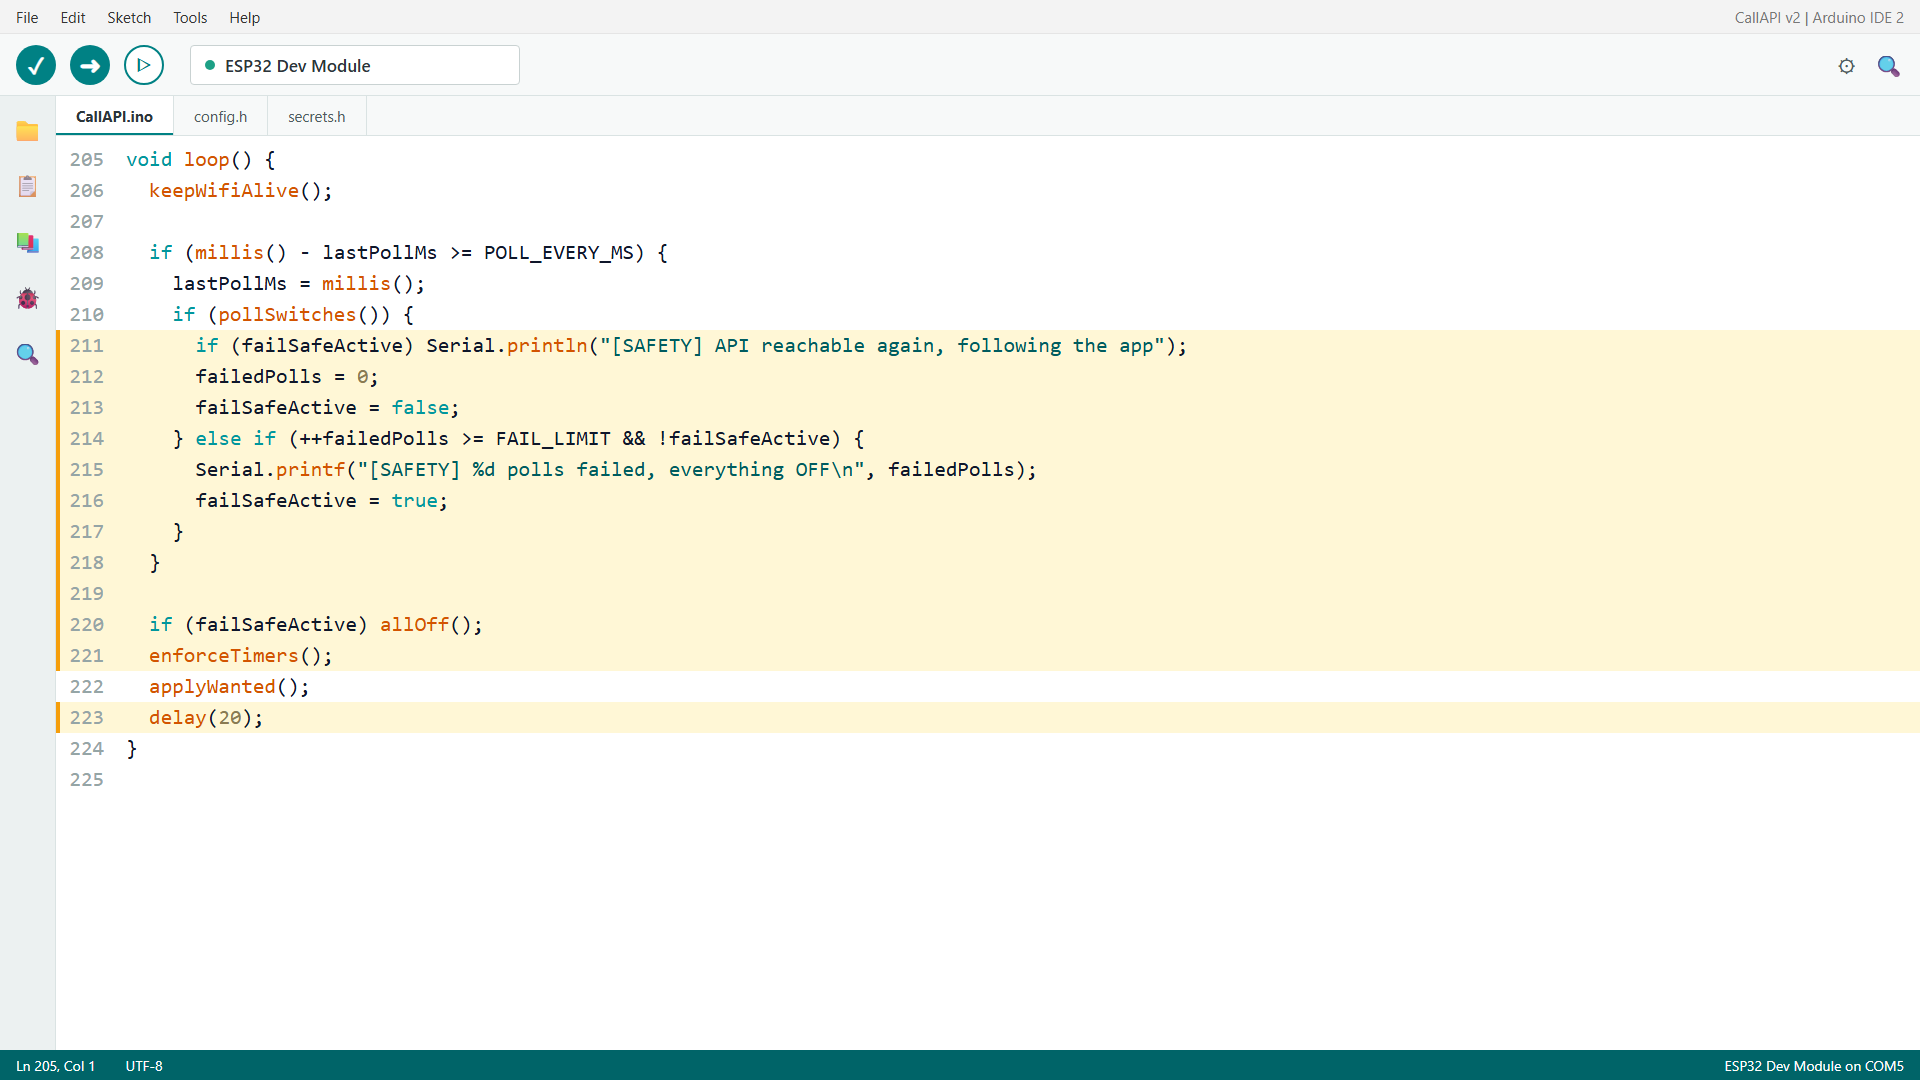
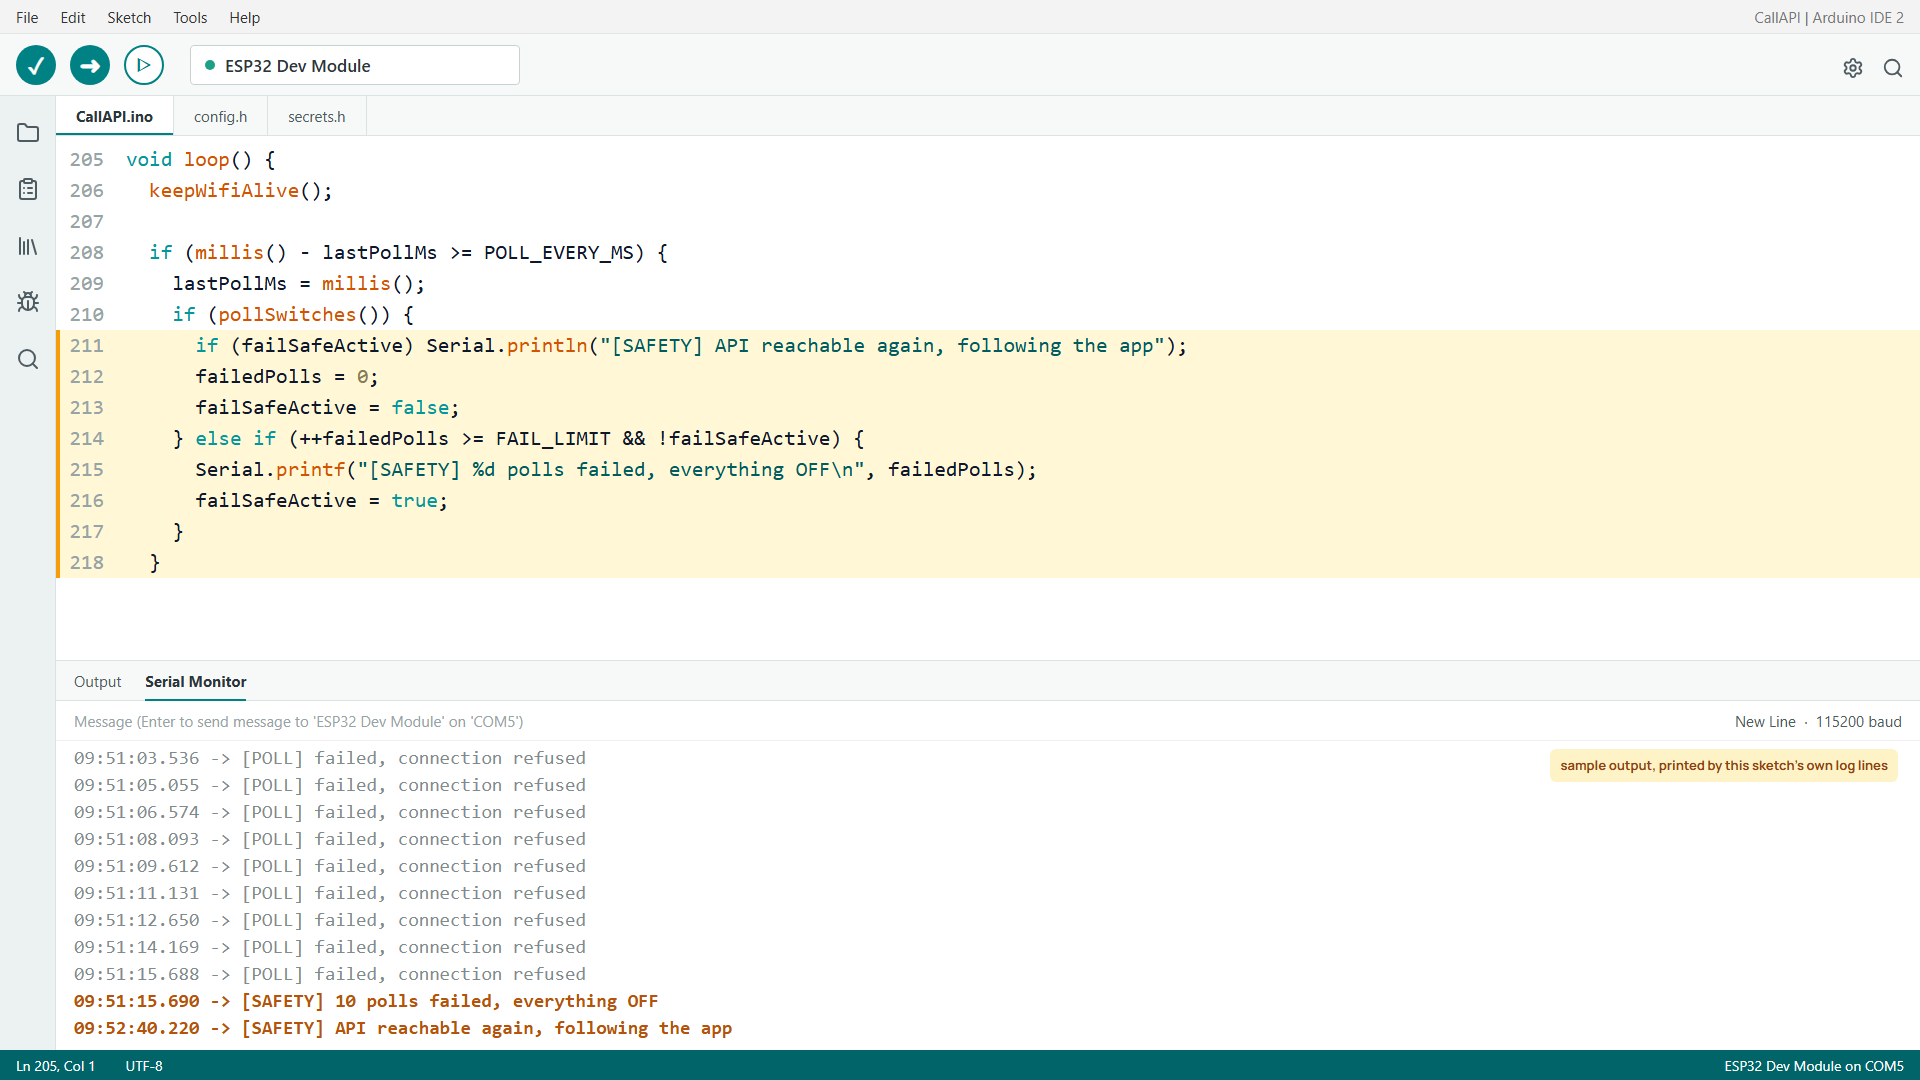
Latest working code only: drop the old-version comparison (docs/before-after.md), neutral sketch header and IDE title, new thumbnail with the EP 4 badge

diff --git a/arduino/CallAPI/config.h b/arduino/CallAPI/config.h
@@ -2,7 +2,7 @@
 #pragma once
 
 // ---------------- Relay pins ----------------
-// The 2023 version used GPIO 13, 12 and 14. Two of those are risky for relays:
+// Pick pins with no role at boot. Two common choices are risky for relays:
 //   GPIO 12 is a boot strapping pin (a relay board pulling it HIGH can stop the ESP32 from booting),
 //   GPIO 14 puts out a short PWM signal at boot (a relay can click on for a moment).
 // These four pins are plain outputs with no boot role.

diff --git a/arduino/README.md b/arduino/README.md
@@ -1,4 +1,4 @@
-# ESP32 sketch: CallAPI v2
+# ESP32 sketch: CallAPI
 
 One ESP32 on home Wi-Fi drives a 4-channel relay board: the Motor (main pump) and one solenoid each for the ground, first and second floor drip lines. Every 1.5 seconds it asks the web API for four booleans and sets the relays (true = ON), with its own safety rules on top. The board never talks to Dataverse and holds no Dataverse credentials.
 
@@ -22,7 +22,7 @@ One ESP32 on home Wi-Fi drives a 4-channel relay board: the Motor (main pump) an
 | GND | GND | Common ground for the relay inputs |
 | 5V / VIN | VCC | Relay board logic supply (check your board) |
 
-These pins are plain outputs with no boot role. The 2023 version used GPIO 12 and 14: GPIO 12 is a boot strapping pin and GPIO 14 pulses at boot, so a relay could stop the board from booting or click on for a moment.
+These pins are plain outputs with no boot role. Avoid GPIO 12 and 14 for relays: GPIO 12 is a boot strapping pin and GPIO 14 pulses at boot, so a relay could stop the board from booting or click on for a moment.
 
 Most relay boards switch ON when the input is LOW. If yours switches ON with HIGH, set `RELAY_ACTIVE_LOW` to `false` in `config.h`.
 
@@ -74,7 +74,7 @@ A missing key counts as false. Any error, timeout or bad JSON counts as a failed
 This is a **sample** of what the Serial Monitor shows, with IDE timestamps on: one manual run from the app, then an API outage. It is written to show the messages, not a live capture.
 
 ```text
-09:40:58.102 -> [BOOT] CallAPI v2, all relays OFF
+09:40:58.102 -> [BOOT] CallAPI, all relays OFF
 09:40:58.405 -> [WIFI] connecting......
 09:41:01.511 -> [WIFI] connected, IP 192.168.1.42, signal -58 dBm
 09:41:30.874 -> [POLL] Motor wants ON

diff --git a/CHANGELOG.md b/CHANGELOG.md
@@ -8,11 +8,11 @@ First public release, alongside Architect's Build Lab, Episode 4.
 
 ### Added
 
-- ESP32 sketch `CallAPI` v2: one HTTPS call per poll with a pinned root certificate and a device key, four relays (Motor, Ground, First and Second floor solenoid), settings in `config.h`, secrets in a git-ignored `secrets.h`.
+- ESP32 sketch `CallAPI`: one HTTPS call per poll with a pinned root certificate and a device key, four relays (Motor, Ground, First and Second floor solenoid), settings in `config.h`, secrets in a git-ignored `secrets.h`.
 - Node web API (no packages) that answers with four booleans: mock mode for the bench, Dataverse mode with a read-only service account, and an optional read through the `cr_GetSwitchStates` Custom API. 15 automated checks.
 - C# Dataverse plugins: `SwitchCommandNotifyPlugin` (an ON row creates a WhatsApp message row), `GetSwitchStatesPlugin` (newest row per switch, one query) and `SendWhatsAppMessagePlugin` (Meta WhatsApp Cloud API, every admin number or one receiver). Pure logic in a tested helper layer, 41 unit tests.
 - Dataverse schema as JSON and markdown, and `create-schema.mjs` to create it through the Web API (checked with a dry run only so far).
-- Step-by-step docs for the scheduled watering flow and the send WhatsApp flow, the canvas app, architecture, setup, placeholders, security, wiring and the 2023 to v2 comparison.
+- Step-by-step docs for the scheduled watering flow and the send WhatsApp flow, the canvas app, architecture, setup, placeholders, security and wiring.
 
 ### Security
 

diff --git a/README.md b/README.md
@@ -19,7 +19,7 @@
 
 Watering plants on three floors by hand, every day, is easy to forget and hard to do while you are away.
 This repo is the system that does it at home: a phone app and a schedule give the orders, an ESP32 on the terrace switches the pump and one tap per floor, and every admin gets a WhatsApp message when watering starts.
-It has run at our home since 2023; this is the clean, safer v2, rebuilt step by step in a demo environment so you can build it too.
+It runs at our home every day, and this repo is the full working build, set up step by step in a demo environment so you can build it too.
 
 ## Watch the video
 
@@ -80,7 +80,7 @@ Dataverse is the single source of truth: every order is a new row and the newest
 ├── dataverse/              schema.json, create-schema.mjs, manual maker portal steps
 ├── flows/                  the two Power Automate flows, step by step
 ├── app/                    the canvas app and its formulas
-├── docs/                   architecture, setup, placeholders, security, wiring, before and after
+├── docs/                   architecture, setup, placeholders, security, wiring
 ├── SECURITY.md  CONTRIBUTING.md  CHANGELOG.md  LICENSE
 └── .github/ISSUE_TEMPLATE/ bug report and setup question forms
 ```

diff --git a/docs/ARCHITECTURE.md b/docs/ARCHITECTURE.md
@@ -59,7 +59,7 @@ flowchart LR
 
 ![One call instead of four](images/one-call-api.png)
 
-The 2023 version asked the cloud once per switch, plus extra calls for notifications. Now the board makes one HTTPS call and gets four booleans. Dataverse sign-in, OData and the "newest row per switch" rule stay on the server. You can change the table, the logic or the alert rules without touching the device. More in [before-after.md](before-after.md).
+The board makes one HTTPS call and gets four booleans, instead of one query per switch. Dataverse sign-in, OData and the "newest row per switch" rule stay on the server. You can change the table, the logic or the alert rules without touching the device.
 
 The web API can work out the answer in two ways (`DATAVERSE_READ`):
 
